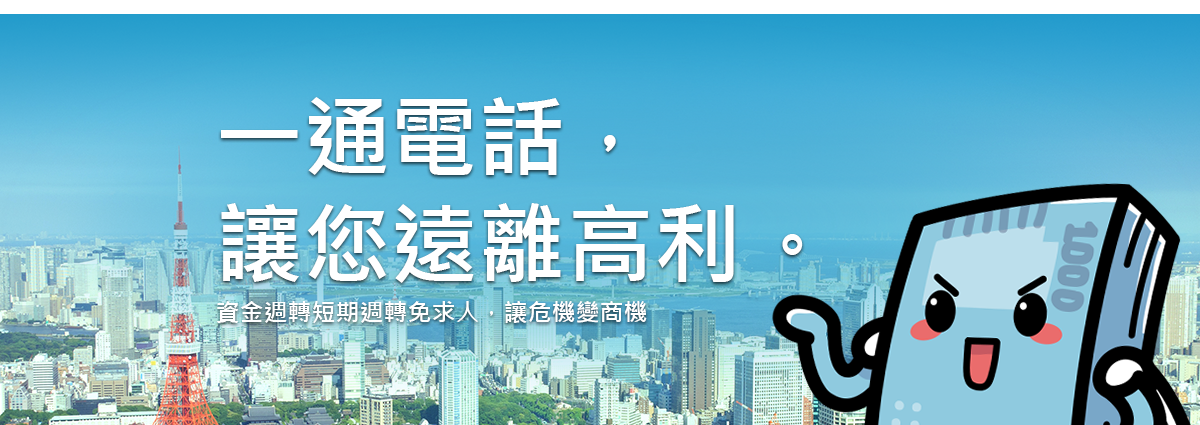
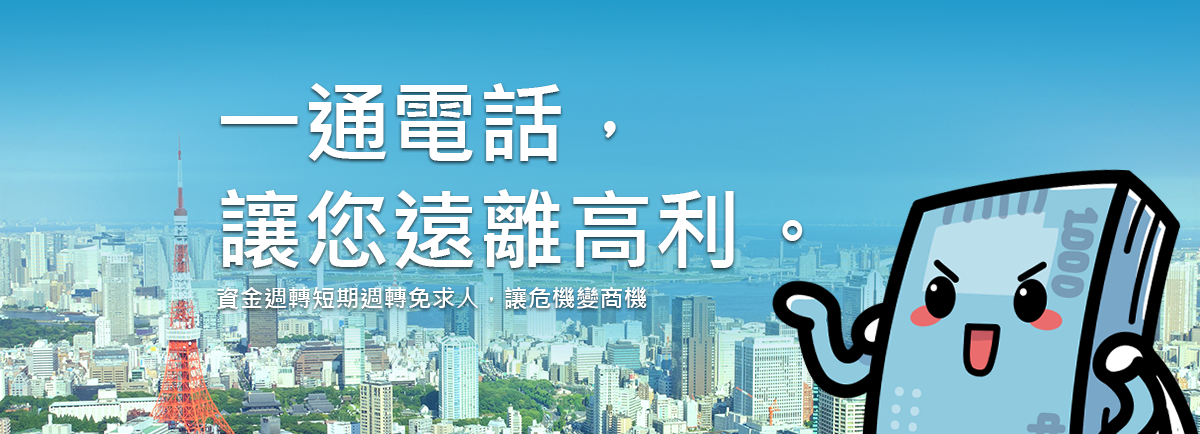
修正國豐首頁橫幅裁切比例

diff --git a/app/globals.css b/app/globals.css
@@ -60,7 +60,7 @@ main {
 
 .legacy-hero {
   position: relative;
-  min-height: 425px;
+  min-height: 434px;
   overflow: hidden;
   background-color: #43b8d8;
   background-image: url("/assets/legacy-web02/home-hero-blue.png");
@@ -710,8 +710,8 @@ main {
   }
 
   .legacy-hero {
-    min-height: 250px;
-    background-size: auto 250px;
+    min-height: 260px;
+    background-size: auto 260px;
     background-position: 46% top;
   }
 